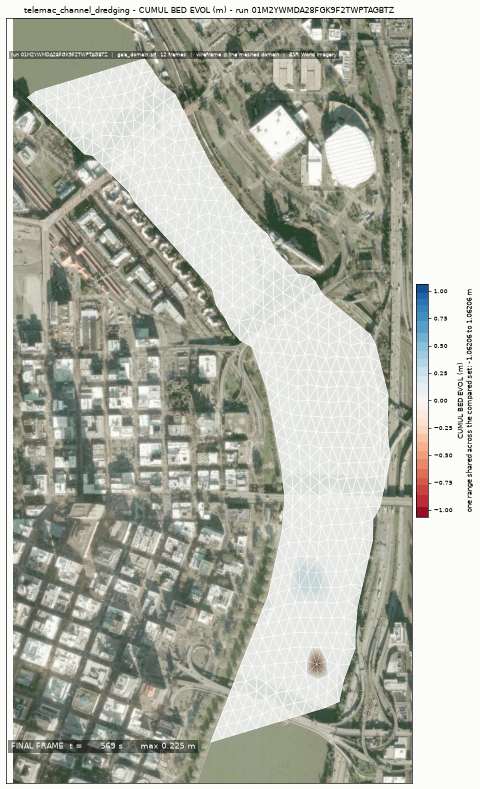
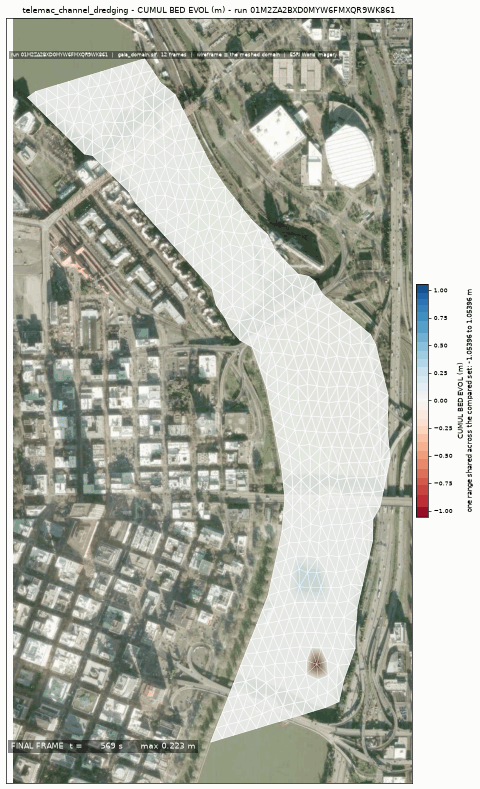
dredging: the page is pinned to a run on the reach deck
The template asks hydrography for a reach by name, and the terrain rows now
state the cell each one fetches, so the bed's second source is the dem row
rather than the 3dep_extra raster that outranked it on a claim. The dredged
volumes move with that bed.

Claude-Session: https://claude.ai/code/session_011wCduZ7TyoMtpZoGZfh2Rw

diff --git a/docs/templates/telemac_channel_dredging.md b/docs/templates/telemac_channel_dredging.md
@@ -46,11 +46,11 @@ The values the template declares. `desc` is what the model reads when it fills o
 
 | field | the proving run's value |
 |---|---|
-| `dug_volume_m3` | 1510.128165 |
-| `dumped_volume_m3` | 1510.128165 |
+| `dug_volume_m3` | 1498.61288 |
+| `dumped_volume_m3` | 1498.61288 |
 | `dredge_report` | the volumes are the engine's own report lines, summed over the passes that finished inside the run's clock |
-| `dredged_bed_change_m` | -1.0620603561401367 |
-| `dumped_bed_change_m` | 0.2248941957950592 |
+| `dredged_bed_change_m` | -1.0539617538452148 |
+| `dumped_bed_change_m` | 0.22317928075790405 |
 | `net_bed_mass_kg` | 0.0 |
 | `mesh_size_m` | 10.33 |
 
@@ -58,7 +58,7 @@ It publishes these layers onto the canvas:
 
 - Input: domain (river_reach)
 - Input: bed (ehydro_surveys)
-- Input: bed (3dep_extra, datum NAVD88 (metres, positive up))
+- Input: bed (dem, 3DEP 1-10 m US lidar (default 10 m); Copernicus GLO-30 30 m global via source=copernicus, datum NAVD88 (metres, positive up))
 - Velocity u over time (river_reach_domain_mesh)
 - Velocity v over time (river_reach_domain_mesh)
 - Water depth over time (river_reach_domain_mesh)
@@ -74,19 +74,19 @@ It publishes these layers onto the canvas:
 
 ## The proving run
 
-Run `01M2YWMDA28FGK9F2TWPTAGBTZ`, 2026-09-20T07:49:22.014671+00:00, 44.19 s, at commit `d0f0a07575b27fb6a13831b2340e2c26d10160f3-dirty`.
+Run `01M2ZA2BXD0MYW6FMXQR9WK861`, 2026-09-20T11:44:16.285672+00:00, 61.2 s, at commit `170b7ad20386d55a6e38a680b153c8228587b69e`.
 
-![Every layer the run published, stacked and framed on the result (run 01M2YWMDA28FGK9F2TWPTAGBTZ)](telemac_channel_dredging/telemac_channel_dredging.png)
+![Every layer the run published, stacked and framed on the result (run 01M2ZA2BXD0MYW6FMXQR9WK861)](telemac_channel_dredging/telemac_channel_dredging.png)
 
-*Every layer the run published, stacked and framed on the result (run 01M2YWMDA28FGK9F2TWPTAGBTZ)*
+*Every layer the run published, stacked and framed on the result (run 01M2ZA2BXD0MYW6FMXQR9WK861)*
 
-![The solve, frame by frame (run 01M2YWMDA28FGK9F2TWPTAGBTZ)](telemac_channel_dredging/telemac_channel_dredging_animation.gif)
+![The solve, frame by frame (run 01M2ZA2BXD0MYW6FMXQR9WK861)](telemac_channel_dredging/telemac_channel_dredging_animation.gif)
 
-*The solve, frame by frame (run 01M2YWMDA28FGK9F2TWPTAGBTZ)*
+*The solve, frame by frame (run 01M2ZA2BXD0MYW6FMXQR9WK861)*
 
-![final frame (run 01M2YWMDA28FGK9F2TWPTAGBTZ)](telemac_channel_dredging/telemac_channel_dredging_final_frame.png)
+![final frame (run 01M2ZA2BXD0MYW6FMXQR9WK861)](telemac_channel_dredging/telemac_channel_dredging_final_frame.png)
 
-*final frame (run 01M2YWMDA28FGK9F2TWPTAGBTZ)*
+*final frame (run 01M2ZA2BXD0MYW6FMXQR9WK861)*
 
 ### The sheet it filled
 
@@ -131,5 +131,5 @@ await TOOL_REGISTRY['telemac_channel_dredging'].fn(
 )
 ```
 
-That is the invocation this run came from; the figures above are stamped with run `01M2YWMDA28FGK9F2TWPTAGBTZ` and commit `d0f0a07575b27fb6a13831b2340e2c26d10160f3-dirty`. The full argument record is [`telemac_channel_dredging/run.json`](telemac_channel_dredging/run.json).
+That is the invocation this run came from; the figures above are stamped with run `01M2ZA2BXD0MYW6FMXQR9WK861` and commit `170b7ad20386d55a6e38a680b153c8228587b69e`. The full argument record is [`telemac_channel_dredging/run.json`](telemac_channel_dredging/run.json).
 
